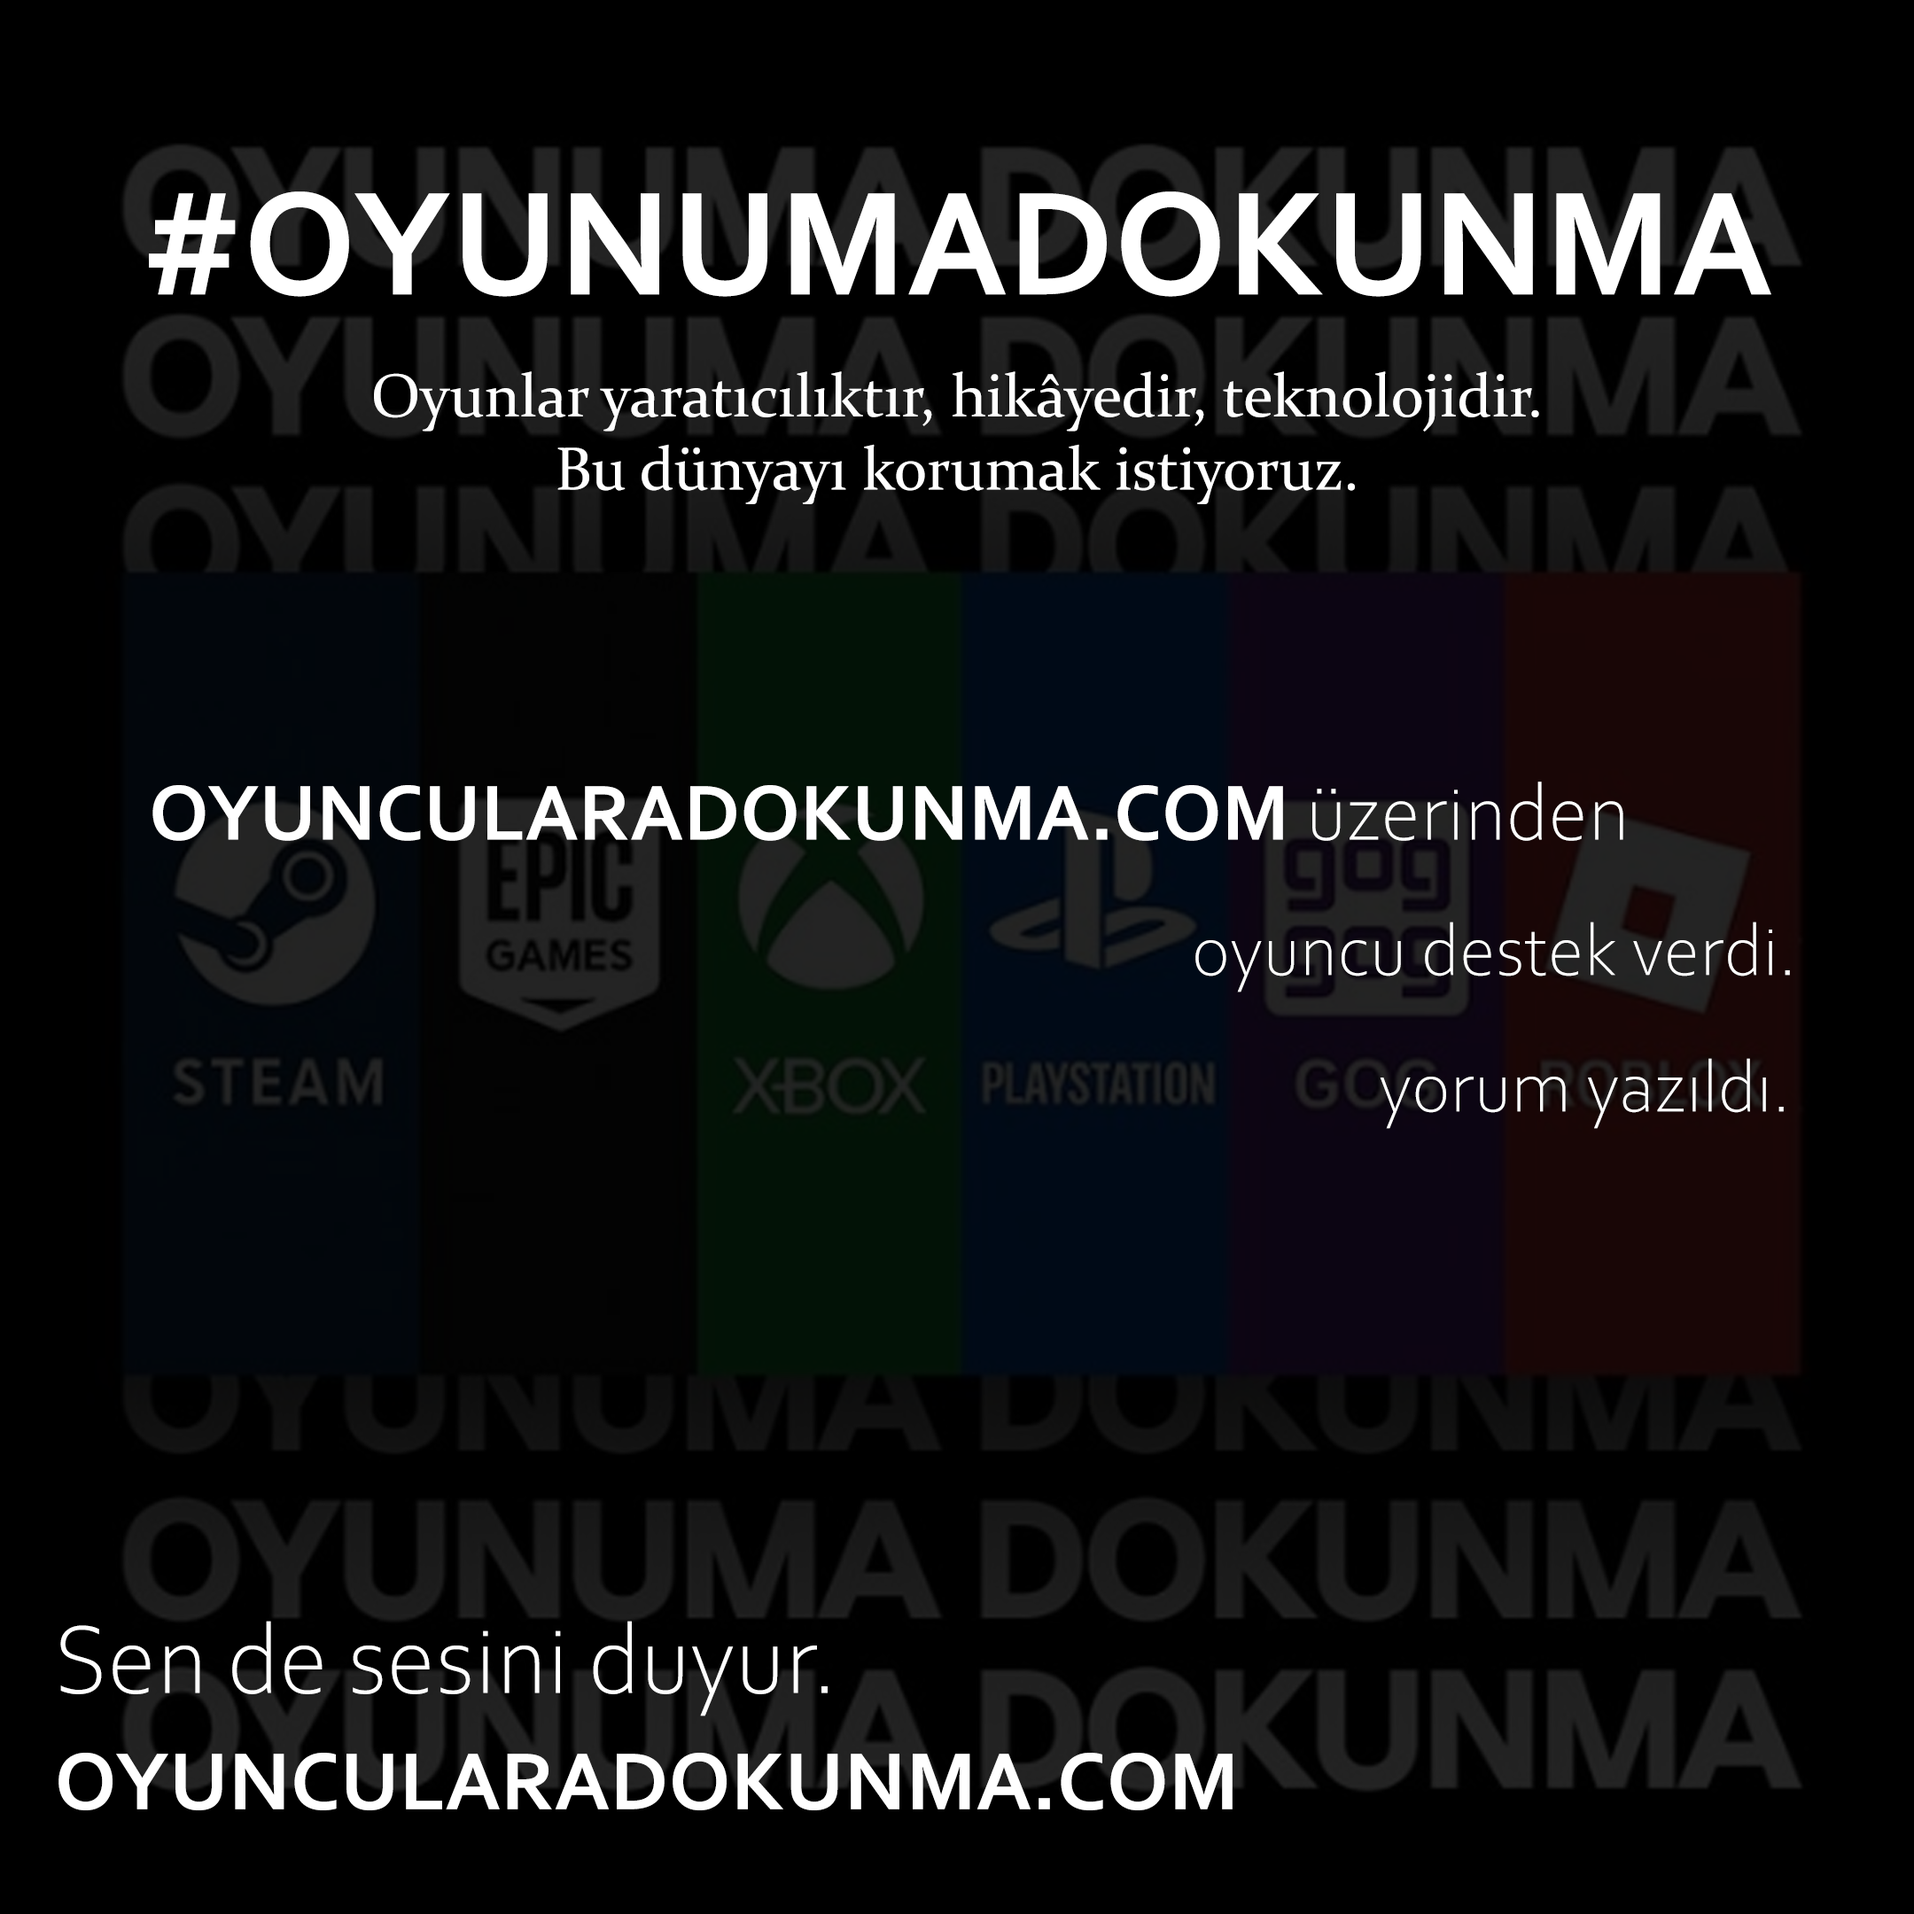
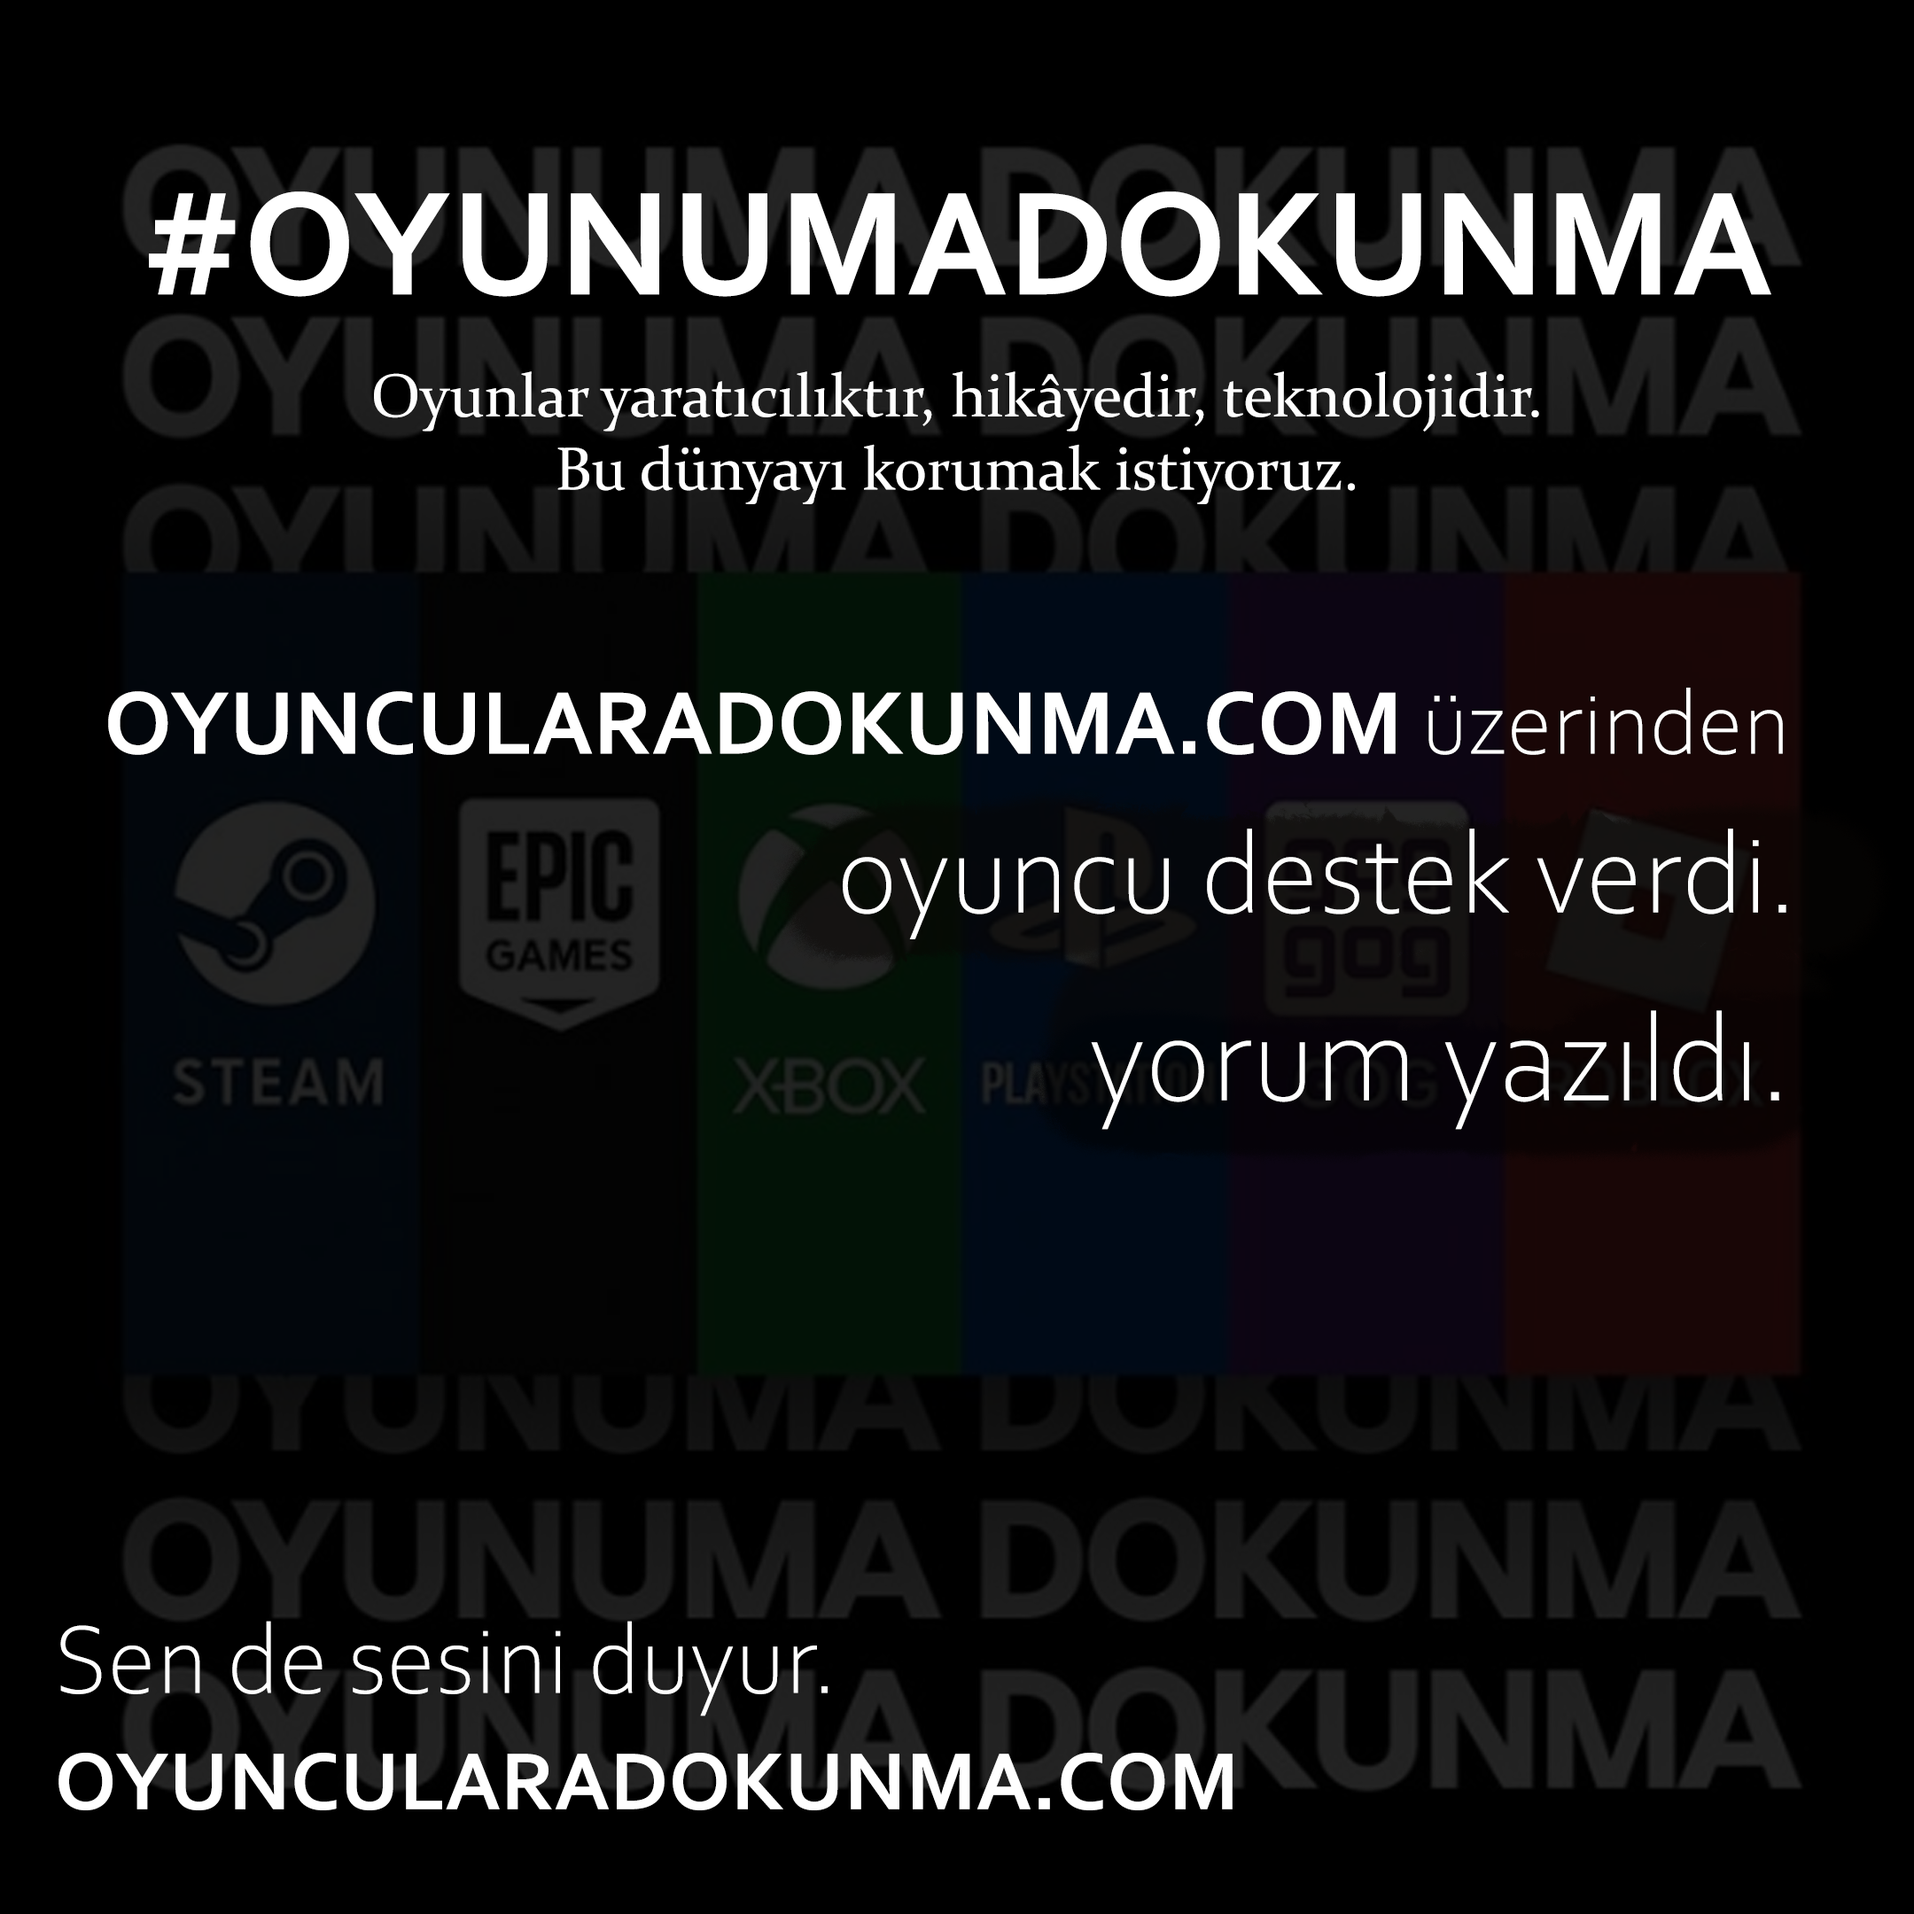
x share

Changed region(s): [[0.062, 0.3412, 0.9306, 0.5894], [0.5583, 0.5583, 0.5894, 0.5894]]

diff --git a/index.html b/index.html
@@ -264,8 +264,8 @@
             
             <div class="share-image-wrapper">
                 <img src="img/X_share.png" alt="Paylaşım Görseli">
-                <div id="stat-players" class="stat-overlay-text" style="top: 47%; right: 41%;">0</div>
-                <div id="stat-comments" class="stat-overlay-text" style="top: 55%; right: 30%;">0</div>
+                <div id="stat-players" class="stat-overlay-text" style="top: 43%; right: 60%;">0</div>
+                <div id="stat-comments" class="stat-overlay-text" style="top: 53%; right: 45%;">0</div>
             </div>
             
             <a href="#" id="twShare" class="x-share-btn" target="_blank" style="margin-top: 0;">
@@ -297,7 +297,7 @@
 
         const forbiddenWords = [
             "amk", "rte", "oe", "akp", "chp", "ak parti", "erdoğan", "recep", "tayyip",
-            "meclis", "milletvekili", "milletvekilleri", "hdp", "dem", "islam"
+            "meclis", "milletvekili", "milletvekilleri", "hdp", "dem", "islam", "sex"
         ]; 
         function filterText(text) {
             if(!text) return "";
